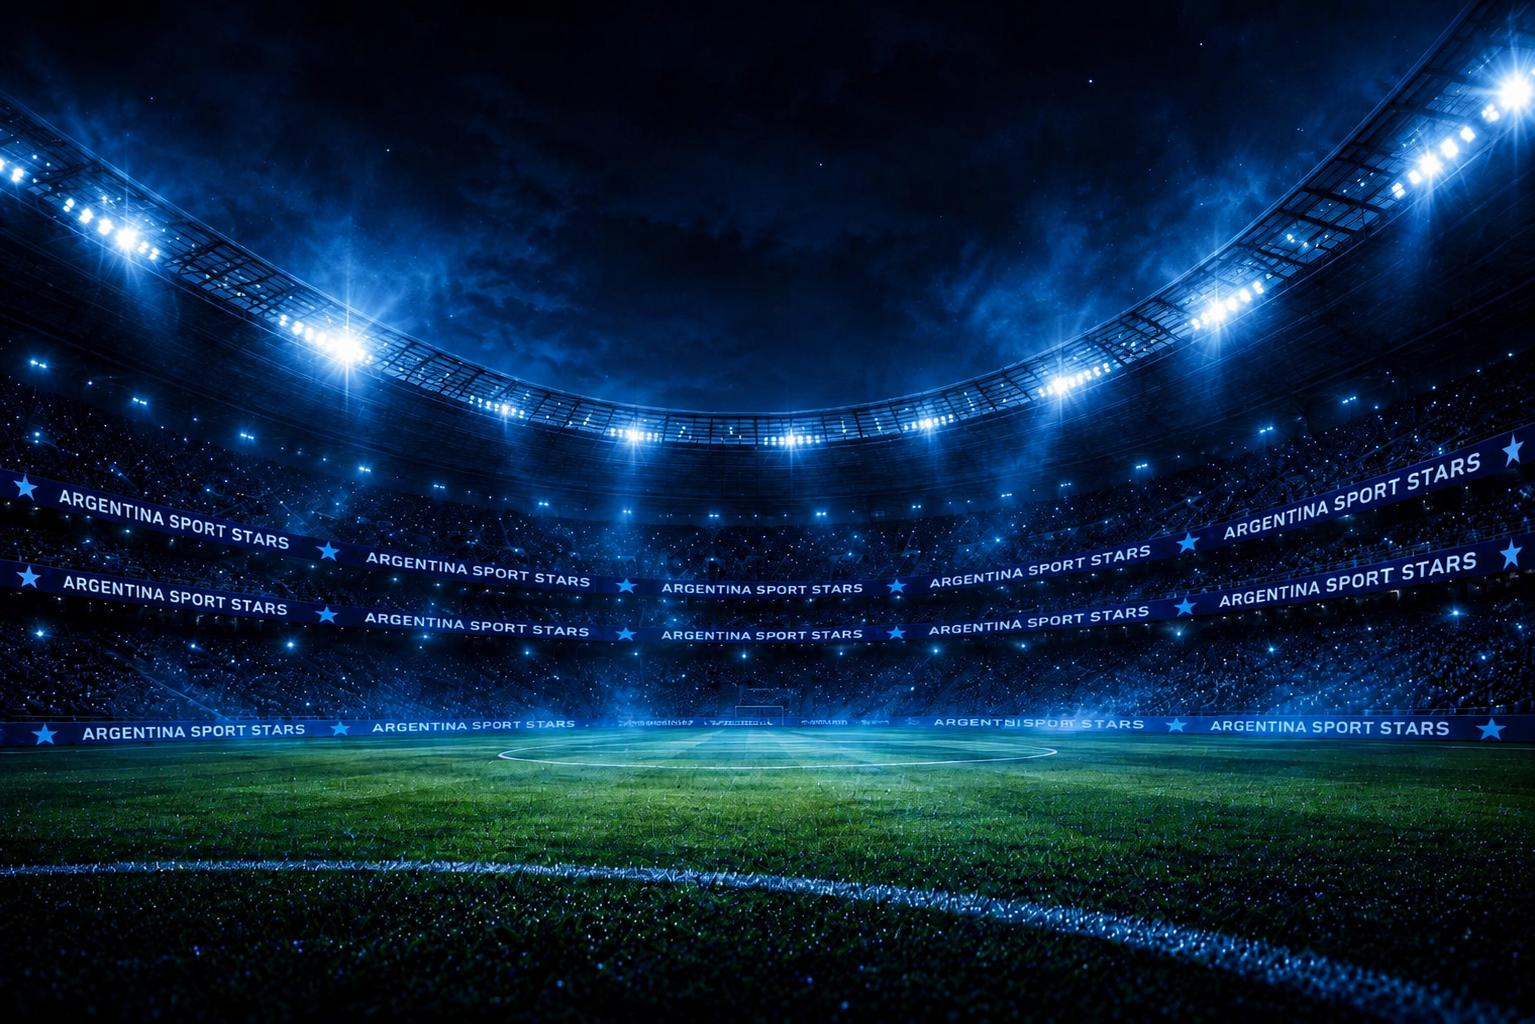
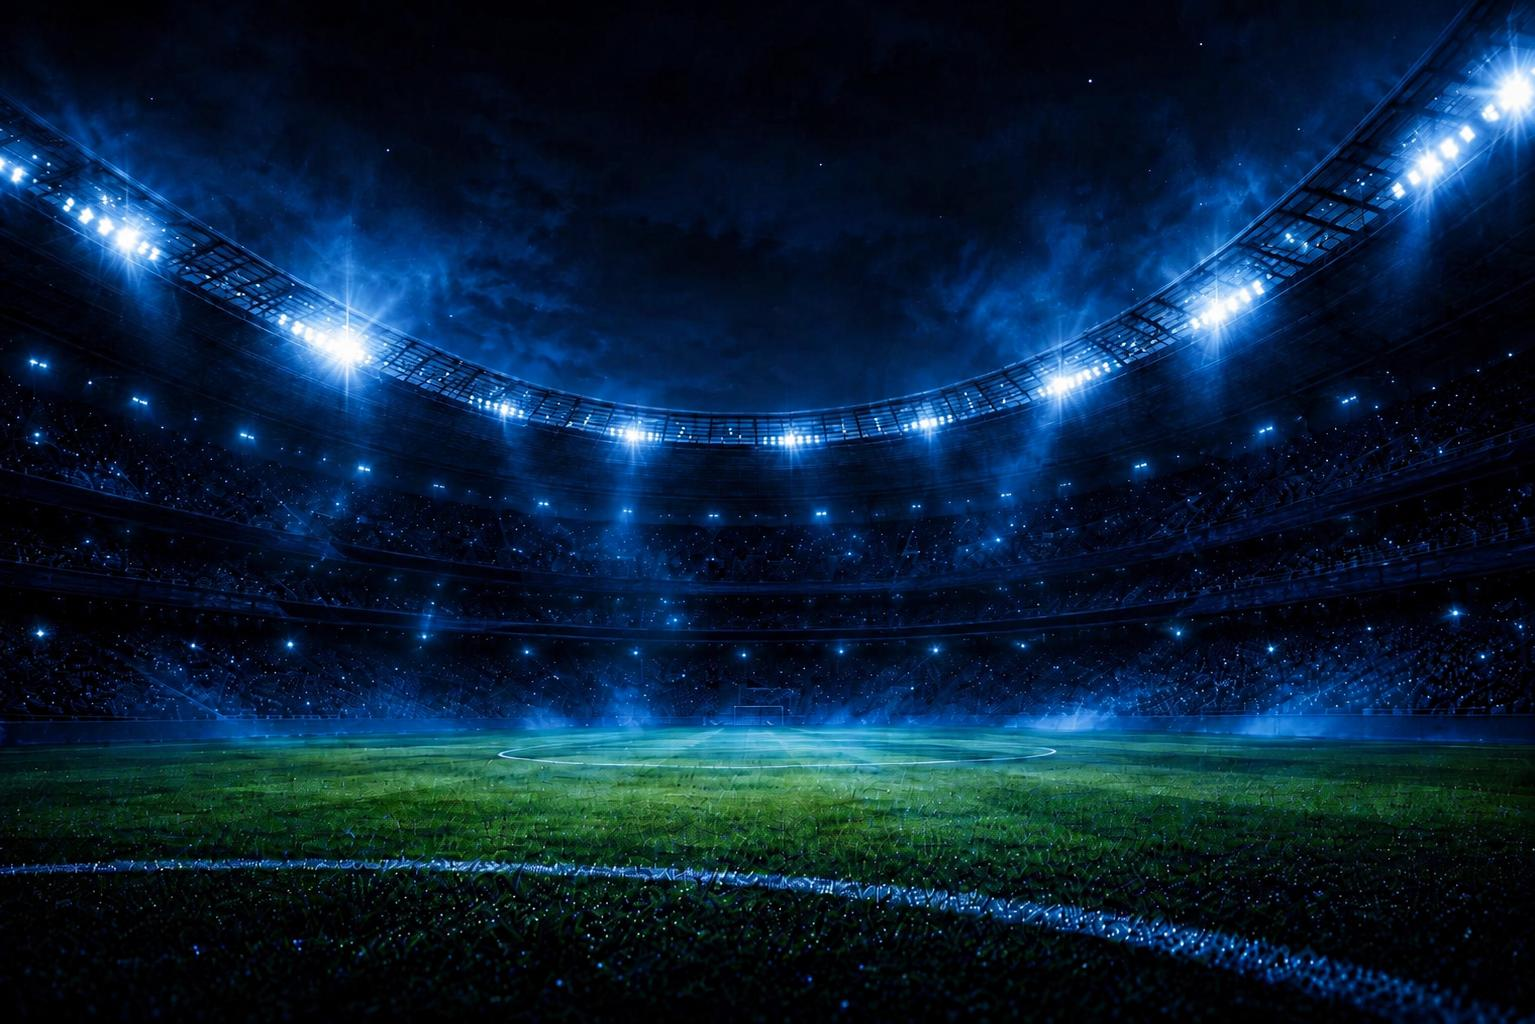
Update gallery, es not full

diff --git a/gallery.html b/gallery.html
@@ -151,7 +151,7 @@ href="https://cdnjs.cloudflare.com/ajax/libs/font-awesome/6.7.2/css/all.min.css"
 
             <div class="gallery-item reveal">
 
-    <img src="images/gallery1.jpg" alt="Football Training Session">
+    <img src="images/gallery/training-session.jpg" alt="Football Training Session">
 
     <div class="gallery-overlay">
 
@@ -165,7 +165,7 @@ href="https://cdnjs.cloudflare.com/ajax/libs/font-awesome/6.7.2/css/all.min.css"
 
             <div class="gallery-item reveal">
 
-    <img src="images/gallery2.jpg" alt="Match Day Action">
+    <img src="images/gallery/match-day-action.jpg" alt="Match Day Action">
 
     <div class="gallery-overlay">
 
@@ -179,13 +179,13 @@ href="https://cdnjs.cloudflare.com/ajax/libs/font-awesome/6.7.2/css/all.min.css"
 
             <div class="gallery-item reveal">
 
-    <img src="images/gallery3.jpg" alt="Team Spirit Celebration">
+    <img src="images/gallery/tactical-analysis.jpg" alt="Tactical Analysis">
 
     <div class="gallery-overlay">
 
         <i class="fa-solid fa-expand"></i>
 
-        <h3>Team Spirit</h3>
+        <h3>Tactical Analysis</h3>
 
     </div>
 
@@ -193,13 +193,13 @@ href="https://cdnjs.cloudflare.com/ajax/libs/font-awesome/6.7.2/css/all.min.css"
 
             <div class="gallery-item reveal">
 
-    <img src="images/gallery4.jpg" alt="Victory Celebration">
+    <img src="images/gallery/international-partnerships.jpg" alt="International Relations">
 
     <div class="gallery-overlay">
 
         <i class="fa-solid fa-expand"></i>
 
-        <h3>Victory</h3>
+        <h3>International Relations</h3>
 
     </div>
 
@@ -207,13 +207,13 @@ href="https://cdnjs.cloudflare.com/ajax/libs/font-awesome/6.7.2/css/all.min.css"
 
             <div class="gallery-item reveal">
 
-    <img src="images/gallery5.jpg" alt="Academy Training">
+    <img src="images/gallery/player-scouting.jpg" alt="Player Scouting">
 
     <div class="gallery-overlay">
 
         <i class="fa-solid fa-expand"></i>
 
-        <h3>Academy</h3>
+        <h3>Player Scouting</h3>
 
     </div>
 
@@ -221,18 +221,18 @@ href="https://cdnjs.cloudflare.com/ajax/libs/font-awesome/6.7.2/css/all.min.css"
 
             <div class="gallery-item reveal">
 
-    <img src="images/gallery6.jpg" alt="Future Stars">
+    <img src="images/gallery/recovery-wellness-info.jpg" alt="Recovery & Wellness">
 
     <div class="gallery-overlay">
 
         <i class="fa-solid fa-expand"></i>
 
-        <h3>Future Stars</h3>
+        <h3>Recovery & Wellness</h3>
 
     </div>
 
 </div>
-
+<!-- Additional gallery items can be added here 
             <div class="gallery-item reveal">
 
     <img src="images/gallery7.jpg" alt="International Players">
@@ -260,7 +260,7 @@ href="https://cdnjs.cloudflare.com/ajax/libs/font-awesome/6.7.2/css/all.min.css"
     </div>
 
 </div>
-
+-->
         </div>
 
     </div>

diff --git a/es/gallery.html b/es/gallery.html
@@ -118,7 +118,7 @@ Momentos de partidos, entrenamientos y victorias inolvidables.
 
             <div class="gallery-item reveal">
 
-    <img src="images/gallery1.jpg" alt="">
+    <img src="../images/gallery/training-session.jpg" alt="Sesión de Entrenamiento">
 
     <div class="gallery-overlay">
 
@@ -132,7 +132,7 @@ Momentos de partidos, entrenamientos y victorias inolvidables.
 
             <div class="gallery-item reveal">
 
-    <img src="images/gallery2.jpg" alt="">
+    <img src="../images/gallery/match-day-action.jpg" alt="Día de Partido">
 
     <div class="gallery-overlay">
 
@@ -146,13 +146,13 @@ Momentos de partidos, entrenamientos y victorias inolvidables.
 
             <div class="gallery-item reveal">
 
-    <img src="images/gallery3.jpg" alt="">
+    <img src="../images/gallery/tactical-analysis.jpg" alt="Análisis Táctico">
 
     <div class="gallery-overlay">
 
         <i class="fa-solid fa-expand"></i>
 
-        <h3>Espíritu de Equipo</h3>
+        <h3>Análisis Táctico</h3>
 
     </div>
 
@@ -160,13 +160,13 @@ Momentos de partidos, entrenamientos y victorias inolvidables.
 
             <div class="gallery-item reveal">
 
-    <img src="images/gallery4.jpg" alt="">
+    <img src="../images/gallery/international-partnerships.jpg" alt="International Relations">
 
     <div class="gallery-overlay">
 
         <i class="fa-solid fa-expand"></i>
 
-        <h3>Victoria</h3>
+        <h3>International Relations</h3>
 
     </div>
 
@@ -174,13 +174,13 @@ Momentos de partidos, entrenamientos y victorias inolvidables.
 
             <div class="gallery-item reveal">
 
-    <img src="images/gallery5.jpg" alt="">
+    <img src="../images/gallery/player-scouting.jpg" alt="Player Scouting">
 
     <div class="gallery-overlay">
 
         <i class="fa-solid fa-expand"></i>
 
-        <h3>Academia</h3>
+        <h3>Player Scouting</h3>
 
     </div>
 
@@ -188,18 +188,18 @@ Momentos de partidos, entrenamientos y victorias inolvidables.
 
             <div class="gallery-item reveal">
 
-    <img src="images/gallery6.jpg" alt="">
+    <img src="../images/gallery/recovery-wellness-info.jpg" alt="Recovery & Wellness">
 
     <div class="gallery-overlay">
 
         <i class="fa-solid fa-expand"></i>
 
-        <h3>Futuras Estrellas</h3>
+        <h3>Recovery & Wellness</h3>
 
     </div>
 
 </div>
-
+<!-- Additional gallery items can be added here 
             <div class="gallery-item reveal">
 
     <img src="images/gallery7.jpg" alt="">
@@ -228,7 +228,7 @@ Momentos de partidos, entrenamientos y victorias inolvidables.
     </div>
 
 </div>
-
+-->
         </div>
 
     </div>
